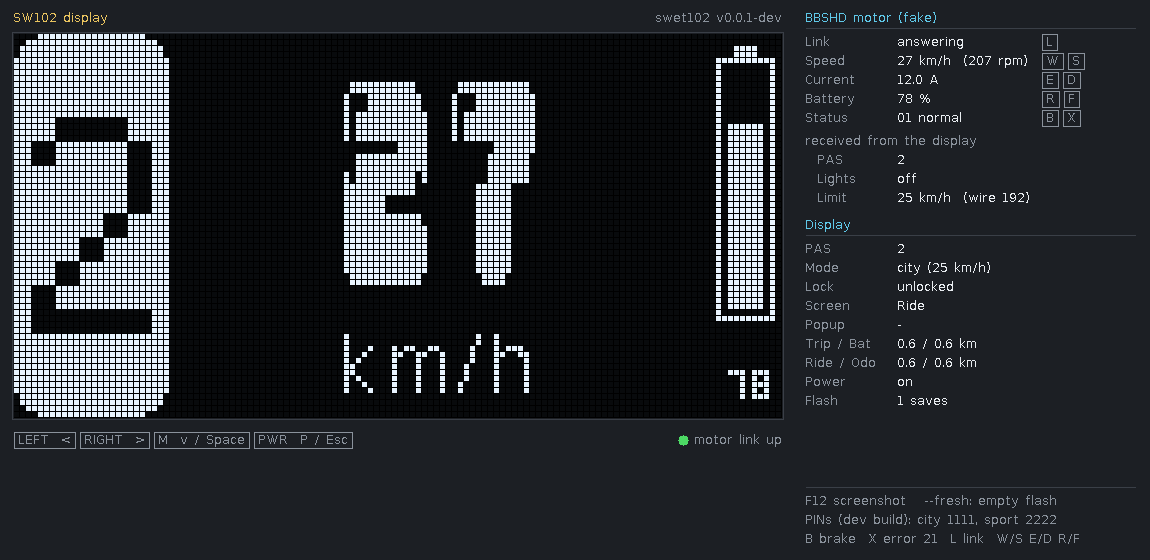
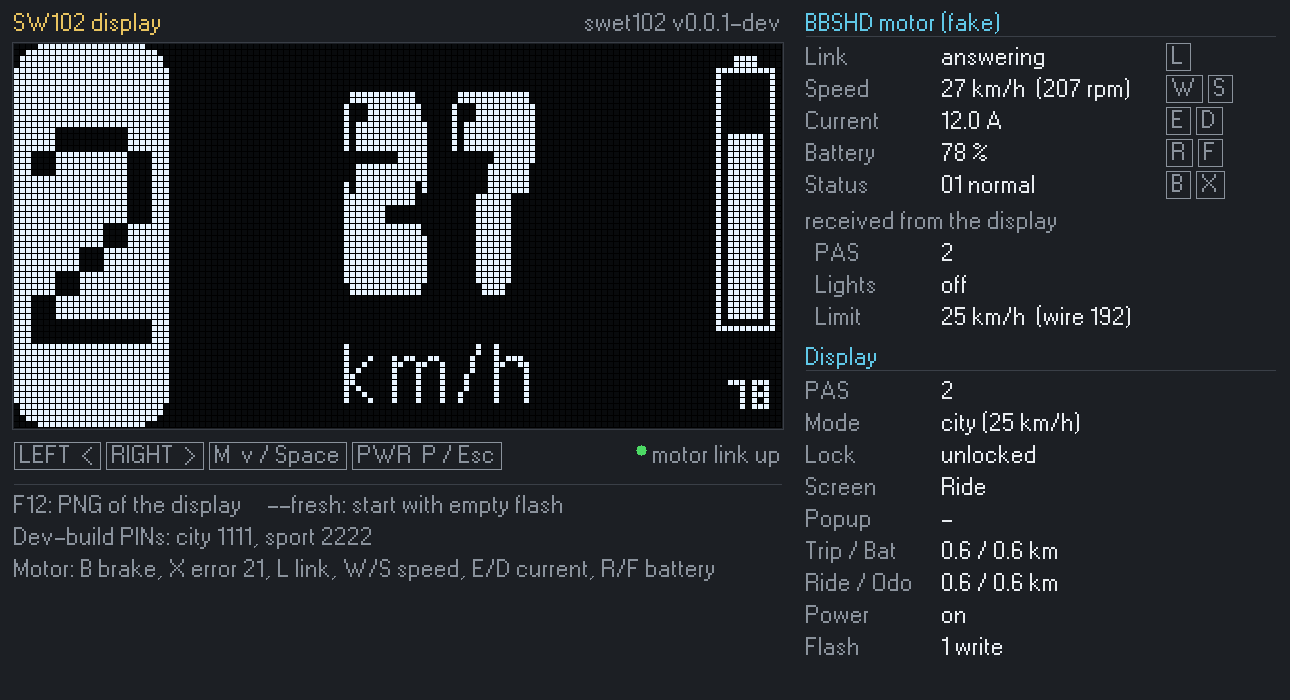
feat(emu): bigger panel text in W95FA
The panel used the firmware's 13 px font at 1:1, which was small next to the
6× display. It now uses W95FA (already in assets/fonts for the PAS digits),
rasterised by ab_glyph exactly on its pixel grid at 2 screen pixels per
font pixel: ~18 px tall and still crisp.

Layout follows: 32 px rows so key chips no longer overlap, a wider panel,
the legend moved under the display, window 1290×700. Also "1 write" instead
of "1 saves". The flake now includes assets/fonts (the emulator embeds the
font). Floats are allowed in the emulator's font module only.

Claude-Session: https://claude.ai/code/session_01H4viajJjkKnZn9PBdziAHn

diff --git a/crates/swet-emu/src/canvas.rs b/crates/swet-emu/src/canvas.rs
@@ -1,9 +1,99 @@
 //! Minimal drawing on the window's 0RGB pixel buffer: rectangles, dots and
-//! text in the firmware's own 13 px font (`swet_heart::gfx::assets::TEXT`),
-//! so the panel needs no font crate.
+//! text. Text uses W95FA (assets/fonts, SIL OFL 1.1, the same pixel font as the
+//! PAS digits), rasterised once at start-up exactly on its pixel grid and
+//! scaled ×2, so it stays crisp and readable next to the 6× display.
 
-use swet_heart::gfx::Font;
-use swet_heart::gfx::assets::TEXT;
+// Desktop-only font rasterising: floats are fine here (the workspace denies
+// them for the firmware core).
+#![allow(clippy::float_arithmetic)]
+
+use ab_glyph::{Font as _, FontRef, PxScale, ScaleFont as _, point};
+
+static W95FA: &[u8] = include_bytes!("../../../assets/fonts/W95FA.otf");
+/// W95FA design grid: 80 font units per pixel, glyph x offset 50 units.
+const UNIT: f32 = 80.0;
+const X_ORIGIN: f32 = 50.0;
+/// Screen pixels per font pixel.
+const TEXT_SCALE: f32 = 2.0;
+
+struct Glyph {
+    w: usize,
+    h: usize,
+    /// Offset of the bitmap from (pen x, line top).
+    dx: i32,
+    dy: i32,
+    px: Vec<bool>,
+    advance: i32,
+}
+
+/// W95FA glyphs for printable ASCII.
+pub struct UiFont {
+    glyphs: Vec<Option<Glyph>>,
+    /// Height of one text line.
+    pub height: i32,
+}
+
+impl UiFont {
+    pub fn load() -> Self {
+        let font = FontRef::try_from_slice(W95FA).expect("W95FA.otf is a valid font");
+        // PxScale is the pixel height of ascent − descent: this puts one font
+        // pixel on exactly TEXT_SCALE screen pixels.
+        let px = font.height_unscaled() / UNIT * TEXT_SCALE;
+        let scaled = font.as_scaled(PxScale::from(px));
+        let ascent = scaled.ascent().round();
+        let glyphs = (0u8..128)
+            .map(|c| {
+                let ch = c as char;
+                if !ch.is_ascii_graphic() && ch != ' ' {
+                    return None;
+                }
+                let mut g = scaled.scaled_glyph(ch);
+                g.position = point(-X_ORIGIN / UNIT * TEXT_SCALE, ascent);
+                let advance = scaled.h_advance(g.id).round() as i32;
+                let Some(outline) = font.outline_glyph(g) else {
+                    return Some(Glyph {
+                        w: 0,
+                        h: 0,
+                        dx: 0,
+                        dy: 0,
+                        px: Vec::new(),
+                        advance,
+                    });
+                };
+                let b = outline.px_bounds();
+                let (w, h) = (b.width() as usize, b.height() as usize);
+                let mut bits = vec![false; w * h];
+                outline.draw(|x, y, v| {
+                    if v >= 0.5 && (x as usize) < w && (y as usize) < h {
+                        bits[y as usize * w + x as usize] = true;
+                    }
+                });
+                Some(Glyph {
+                    w,
+                    h,
+                    dx: b.min.x as i32,
+                    dy: b.min.y as i32,
+                    px: bits,
+                    advance,
+                })
+            })
+            .collect();
+        Self {
+            glyphs,
+            height: scaled.height().round() as i32,
+        }
+    }
+
+    fn glyph(&self, c: u8) -> Option<&Glyph> {
+        self.glyphs.get(usize::from(c)).and_then(Option::as_ref)
+    }
+
+    pub fn width(&self, s: &str) -> i32 {
+        s.bytes()
+            .map(|c| self.glyph(c).map_or(0, |g| g.advance))
+            .sum()
+    }
+}
 
 /// Colours of a key chip: fill when held, outline/text when not, background.
 #[derive(Clone, Copy)]
@@ -17,14 +107,18 @@ pub struct Canvas<'a> {
     pub buf: &'a mut [u32],
     pub w: usize,
     pub h: usize,
+    pub font: &'a UiFont,
 }
 
 impl Canvas<'_> {
     pub fn fill(&mut self, x: i32, y: i32, w: i32, h: i32, c: u32) {
         let (x0, x1) = (x.max(0) as usize, ((x + w).max(0) as usize).min(self.w));
         let (y0, y1) = (y.max(0) as usize, ((y + h).max(0) as usize).min(self.h));
+        if x0 >= x1 {
+            return;
+        }
         for yy in y0..y1 {
-            self.buf[yy * self.w + x0..yy * self.w + x1.max(x0)].fill(c);
+            self.buf[yy * self.w + x0..yy * self.w + x1].fill(c);
         }
     }
 
@@ -45,46 +139,38 @@ impl Canvas<'_> {
         }
     }
 
-    /// Text at (`x`, `y`) top-left; returns the x after it.
+    /// Text with its line top at (`x`, `y`); returns the x after it.
     pub fn text(&mut self, s: &str, x: i32, y: i32, c: u32) -> i32 {
-        let font: &Font = &TEXT;
+        let font = self.font;
         let mut cx = x;
         for ch in s.bytes() {
-            let Some(i) = font.chars.iter().position(|&k| k == ch) else {
-                cx += 4;
-                continue;
-            };
-            let (sx, ex) = (
-                usize::from(font.offsets[i]),
-                usize::from(font.offsets[i + 1]),
-            );
-            for row in 0..usize::from(font.height) {
-                let line = &font.bits[row * usize::from(font.stride)..];
-                for (col, s) in (sx..ex).enumerate() {
-                    if line[s >> 3] & (1 << (s & 7)) != 0 {
-                        self.fill(cx + col as i32, y + row as i32, 1, 1, c);
+            let Some(g) = font.glyph(ch) else { continue };
+            for gy in 0..g.h {
+                for gx in 0..g.w {
+                    if g.px[gy * g.w + gx] {
+                        self.fill(cx + g.dx + gx as i32, y + g.dy + gy as i32, 1, 1, c);
                     }
                 }
             }
-            cx += (ex - sx) as i32 + 1;
+            cx += g.advance;
         }
         cx
     }
 
-    pub fn text_width(s: &str) -> i32 {
-        TEXT.width(s.as_bytes(), 1)
+    pub fn text_width(&self, s: &str) -> i32 {
+        self.font.width(s)
     }
 
-    /// A key chip like "[W]": filled with `s.on` while held.
+    /// A key chip like "W": filled with `s.on` while held.
     pub fn chip(&mut self, label: &str, x: i32, y: i32, held: bool, s: Chip) -> i32 {
-        let w = Self::text_width(label) + 10;
+        let (w, h) = (self.text_width(label) + 12, self.font.height + 4);
         if held {
-            self.fill(x, y, w, 17, s.on);
-            self.text(label, x + 5, y + 2, s.bg);
+            self.fill(x, y, w, h, s.on);
+            self.text(label, x + 6, y + 2, s.bg);
         } else {
-            self.outline(x, y, w, 17, s.off);
-            self.text(label, x + 5, y + 2, s.off);
+            self.outline(x, y, w, h, s.off);
+            self.text(label, x + 6, y + 2, s.off);
         }
-        x + w + 4
+        x + w + 5
     }
 }

diff --git a/crates/swet-emu/src/main.rs b/crates/swet-emu/src/main.rs
@@ -13,7 +13,7 @@ mod canvas;
 
 use std::time::{Duration, Instant};
 
-use canvas::{Canvas, Chip};
+use canvas::{Canvas, Chip, UiFont};
 use minifb::{Key, KeyRepeat, Window, WindowOptions};
 use swet_heart::gfx::{H, W};
 use swet_heart::motor::codec;
@@ -51,14 +51,14 @@ const KEY_CHIP: Chip = Chip {
 
 const MARGIN: i32 = 14;
 const DISP_X: i32 = MARGIN;
-const DISP_Y: i32 = 34;
+const DISP_Y: i32 = 44;
 const DISP_W: i32 = W * SCALE as i32;
 const DISP_H: i32 = H * SCALE as i32;
 const PANEL_X: i32 = DISP_X + DISP_W + 24;
-const PANEL_W: i32 = 330;
+const PANEL_W: i32 = 470;
 const WIN_W: i32 = PANEL_X + PANEL_W + MARGIN;
-const WIN_H: i32 = 560;
-const ROW: i32 = 19;
+const WIN_H: i32 = 700;
+const ROW: i32 = 32;
 
 /// Keys that drive the display's buttons.
 const DISPLAY_KEYS: [(&[Key], u8, &str); 4] = [
@@ -93,6 +93,7 @@ fn main() {
             .ok()
             .and_then(|b| <[u8; swet_heart::STORE_LEN]>::try_from(b.as_slice()).ok())
     };
+    let font = UiFont::load();
     let mut sim = Sim::with_store(stored);
     let mut persisted = stored;
     let mut buf = vec![0u32; w * h];
@@ -181,6 +182,7 @@ fn main() {
             buf: &mut buf,
             w,
             h,
+            font: &font,
         };
         draw(&mut c, &sim, kmh, &held);
         if let Err(e) = window.update_with_buffer(&buf, w, h) {
@@ -200,7 +202,7 @@ fn draw(c: &mut Canvas, sim: &Sim, kmh: u32, held: &dyn Fn(&[Key]) -> bool) {
     // --- the display ---
     c.text("SW102 display", DISP_X, 12, YELLOW);
     let ver = format!("swet102 v{}", config::VERSION);
-    c.text(&ver, DISP_X + DISP_W - Canvas::text_width(&ver), 12, GRAY);
+    c.text(&ver, DISP_X + DISP_W - c.text_width(&ver), 12, GRAY);
     c.outline(DISP_X - 2, DISP_Y - 2, DISP_W + 4, DISP_H + 4, FRAME);
     oled(c, &sim.screen());
 
@@ -217,18 +219,18 @@ fn draw(c: &mut Canvas, sim: &Sim, kmh: u32, held: &dyn Fn(&[Key]) -> bool) {
         (true, false) => (YELLOW, "motor: no link yet"),
         (true, true) => (GREEN, "motor link up"),
     };
-    let lx = DISP_X + DISP_W - Canvas::text_width(txt);
+    let lx = DISP_X + DISP_W - c.text_width(txt);
     c.dot(lx - 12, by + 8, 5, dot);
     c.text(txt, lx, by + 2, GRAY);
 
     // --- the panel ---
     let x0 = PANEL_X;
-    let (vx, kx) = (x0 + 92, x0 + 236);
+    let (vx, kx) = (x0 + 136, x0 + 360);
     let mut y = 12;
     let header = |c: &mut Canvas, y: &mut i32, t: &str| {
         c.text(t, x0, *y, CYAN);
-        c.fill(x0, *y + 16, PANEL_W, 1, FRAME);
-        *y += 24;
+        c.fill(x0, *y + 24, PANEL_W, 1, FRAME);
+        *y += 34;
     };
     let row = |c: &mut Canvas, y: &mut i32, label: &str, value: &str| {
         c.text(label, x0, *y, GRAY);
@@ -238,7 +240,7 @@ fn draw(c: &mut Canvas, sim: &Sim, kmh: u32, held: &dyn Fn(&[Key]) -> bool) {
     let keys = |c: &mut Canvas, y: i32, ks: &[(&str, &[Key])]| {
         let mut x = kx;
         for (label, k) in ks {
-            x = c.chip(label, x, y - 2, held(k), KEY_CHIP);
+            x = c.chip(label, x, y - 3, held(k), KEY_CHIP);
         }
     };
 
@@ -354,29 +356,23 @@ fn draw(c: &mut Canvas, sim: &Sim, kmh: u32, held: &dyn Fn(&[Key]) -> bool) {
         Power::Dfu { .. } => "rebooting to DFU",
     };
     row(c, &mut y, "Power", power);
-    row(
-        c,
-        &mut y,
-        "Flash",
-        &format!("{} saves", sim.hal().store_writes),
-    );
+    let writes = sim.hal().store_writes;
+    let plural = if writes == 1 { "" } else { "s" };
+    row(c, &mut y, "Flash", &format!("{writes} write{plural}"));
 
-    // legend
-    let ly = WIN_H - 3 * ROW - 8;
-    c.fill(x0, ly - 8, PANEL_W, 1, FRAME);
-    c.text("F12 screenshot   --fresh: empty flash", x0, ly, GRAY);
-    c.text(
-        "PINs (dev build): city 1111, sport 2222",
-        x0,
-        ly + ROW,
-        GRAY,
-    );
-    c.text(
-        "B brake  X error 21  L link  W/S E/D R/F",
-        x0,
-        ly + 2 * ROW,
-        GRAY,
-    );
+    // legend, under the display
+    let ly = by + 52;
+    c.fill(DISP_X, ly - 10, DISP_W, 1, FRAME);
+    for (i, line) in [
+        "F12: PNG of the display     --fresh: start with empty flash",
+        "Dev-build PINs: city 1111, sport 2222",
+        "Motor: B brake, X error 21, L link, W/S speed, E/D current, R/F battery",
+    ]
+    .iter()
+    .enumerate()
+    {
+        c.text(line, DISP_X, ly + i as i32 * ROW, GRAY);
+    }
 }
 
 fn oled(c: &mut Canvas, frame: &swet_heart::Frame) {
@@ -402,11 +398,13 @@ fn snapshot(path: &str, w: usize, h: usize) {
     sim.click(Buttons::RIGHT);
     sim.run_ms(90_000);
     let mut buf = vec![0u32; w * h];
+    let font = UiFont::load();
     draw(
         &mut Canvas {
             buf: &mut buf,
             w,
             h,
+            font: &font,
         },
         &sim,
         kmh,
